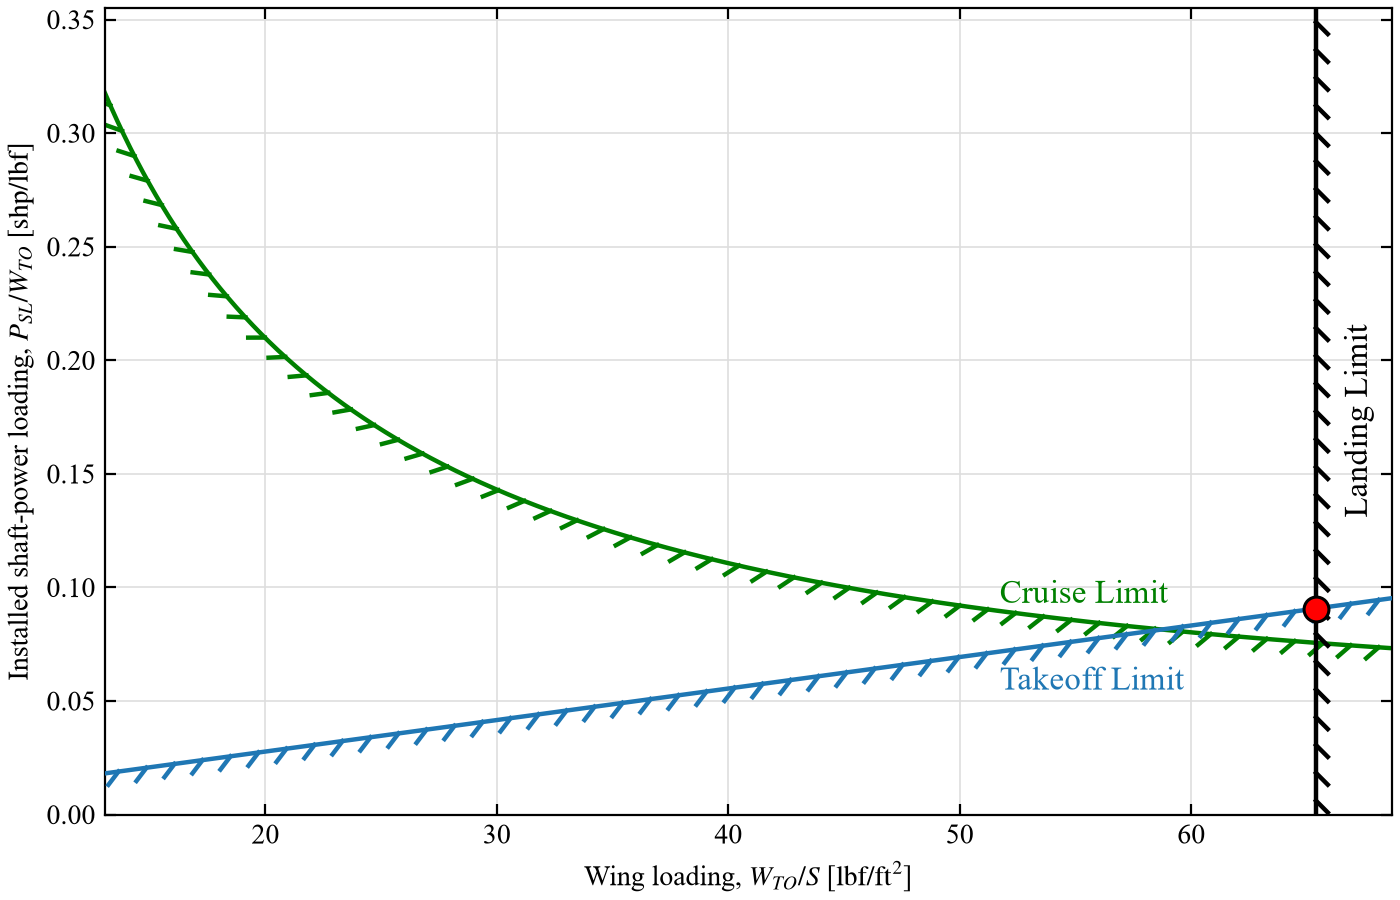
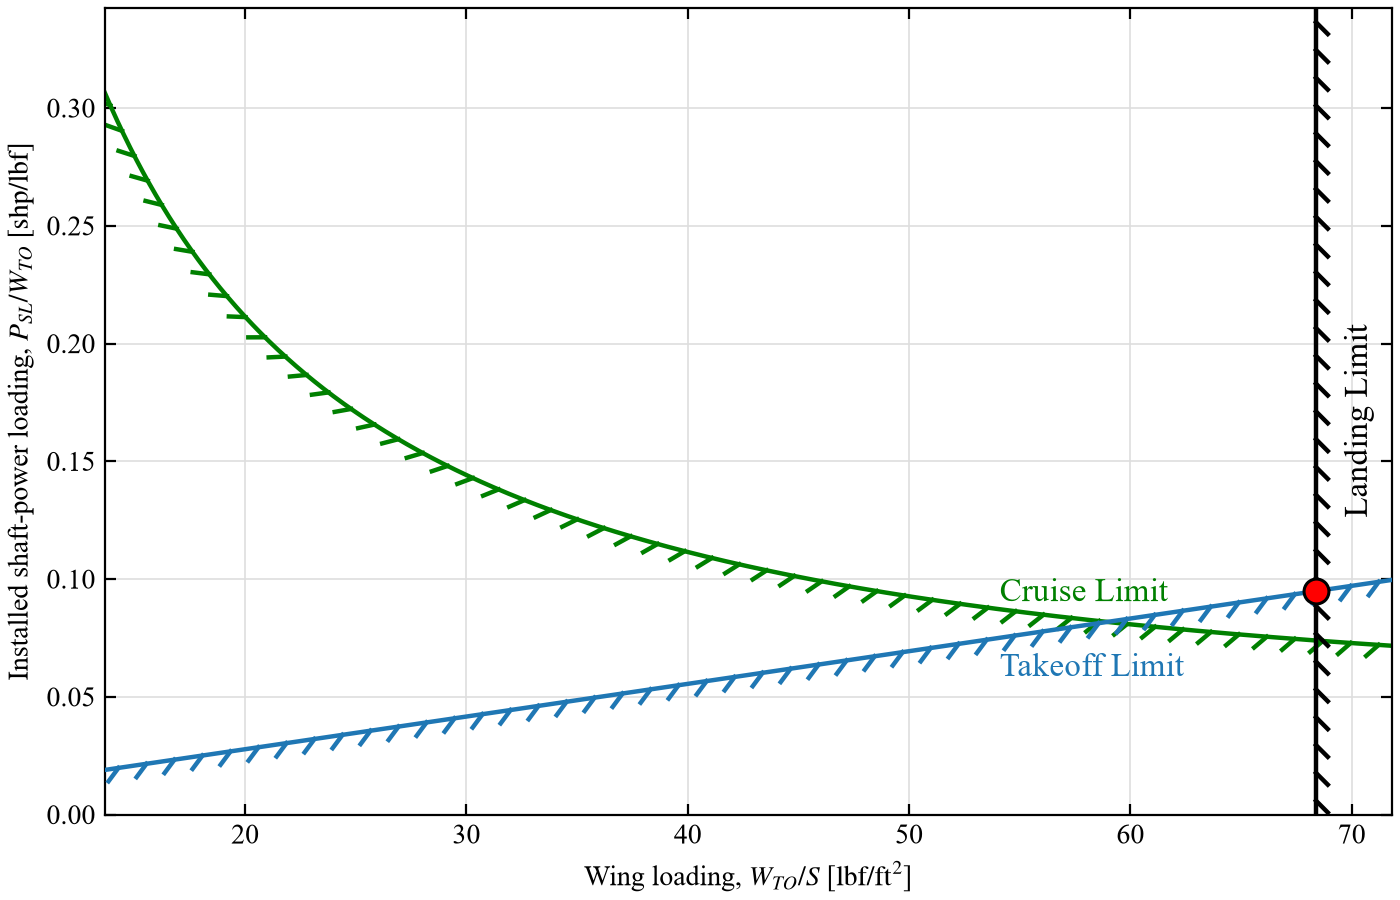
Updated run, our plane

diff --git a/Senior Project Plane/Second Design Review/Sizing/TURBOPROP SIZING TOOL/inputs.py b/Senior Project Plane/Second Design Review/Sizing/TURBOPROP SIZING TOOL/inputs.py
@@ -39,19 +39,19 @@ Wing = SimpleNamespace(
 )
 
 HorizontalTail = SimpleNamespace(
-    AspectRatio=4.7,           # aspect ratio of horizontal tail
+    AspectRatio=4.4,           # aspect ratio of horizontal tail
     V=1.2,                     # dimensionless tail volume coefficient
-    taper_ratio=0.462,         # taper ratio of horizontal tail
-    Length=39.0,               # ft
+    taper_ratio=0.6,         # taper ratio of horizontal tail
+    Length=40.6,               # ft, moment arm
     tc=0.09,                   # thickness/chord ratio
     SweepMidChord=0,        # radians
 )
 
 VerticalTail = SimpleNamespace(
-    AspectRatio=1.33,         # aspect ratio of vertical tail
-    V=0.13,                    # dimensionless tail volume coefficient
-    taper_ratio=0.463,         # taper ratio of vertical tail
-    Length=39.0,               # ft
+    AspectRatio=1.76,         # aspect ratio of vertical tail
+    V=0.12,                    # dimensionless tail volume coefficient
+    taper_ratio=0.55,         # taper ratio of vertical tail
+    Length=37,               # ft
     tc=0.09,                   # thickness/chord ratio
     SweepMidChord=0,        # radians
 )
@@ -63,7 +63,7 @@ cruise_altitude = 20_000 * ureg.ft
 Range = 825                   # nmi
 BSFC = 0.476                   # lb/(hp*hr), NOTE: Based off the PW127XT-M engine
 eta_p_cruise = 0.85            # propeller efficiency; dimensionless
-Payload_weight = 69*250        # lbf
+Payload_weight = 250*69       # lbf
 
 # Constraint inputs
 landing_distance = 3500        # ft; empirical correlation input

diff --git a/Senior Project Plane/Second Design Review/Sizing/TURBOPROP SIZING TOOL/constraints.py b/Senior Project Plane/Second Design Review/Sizing/TURBOPROP SIZING TOOL/constraints.py
@@ -72,8 +72,10 @@ def takeoff_constraint(takeoff_distance, sigma_TO, CL_max_TO, W_S):
 
 def landing_constraint(landing_distance, rho_landing, CL_max_L, takeoff_weight_fraction,
                        climb_weight_fraction, cruise_weight_fraction, landing_weight_fraction):
-    # LANDING CONSTRAINT LINE PART 23 ROSKAM
-    V_SL = np.sqrt(landing_distance / 0.5316) * 1.68781  # kts to ft/sec
+    # LANDING CONSTRAINT LINE PART 25 ROSKAM
+    #V_SL = np.sqrt(landing_distance / 0.3) * 1.68781  # kts to ft/sec, this is for part 23
+    V_approach=np.sqrt(landing_distance/0.3)
+    V_SL=V_approach/1.3 * 1.68791 # kts to ft/s 
     weight_ratio = (takeoff_weight_fraction * climb_weight_fraction * cruise_weight_fraction * landing_weight_fraction)
     W_S_landing = (0.5 * rho_landing * V_SL**2 * CL_max_L) * (1 / weight_ratio)
     return float(np.squeeze(W_S_landing))
